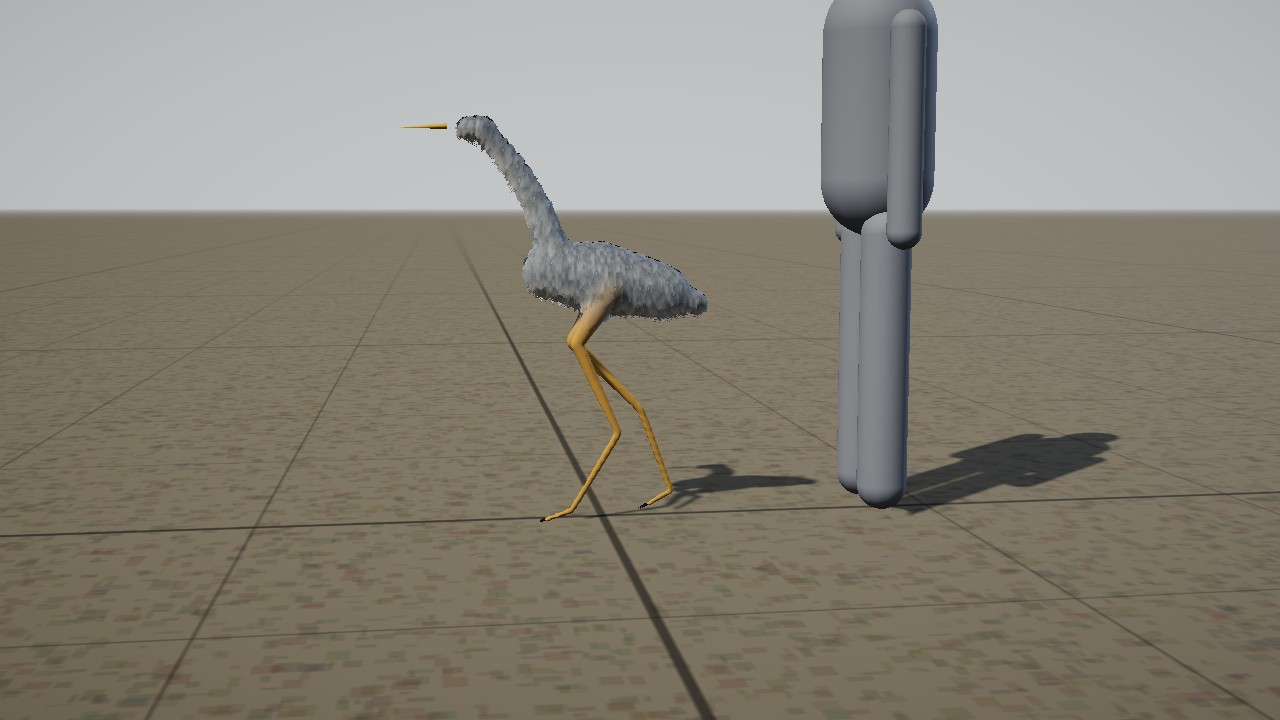
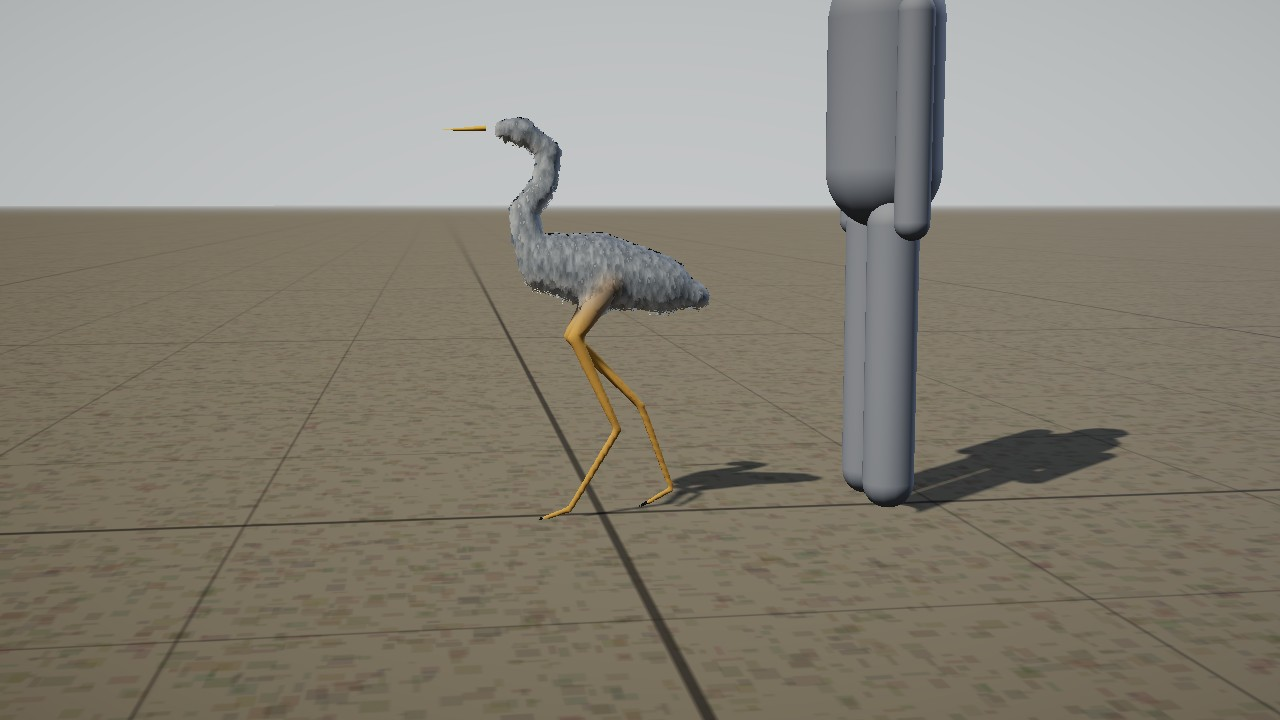
Bodies: Session 1738 — the heron's neck in an S at rest (the kit's neck bends)
Claude-Session: https://claude.ai/code/session_019eFMMoLi6YaA85dpmn3a9F

diff --git a/docs/prototypes/levelup/creatures.js b/docs/prototypes/levelup/creatures.js
@@ -48,17 +48,20 @@ P.spine = (B, o) => {
   B.spineAt = t => { const f = Math.max(0, Math.min(1, t)) * (n - 1), i = Math.min(n - 2, Math.floor(f)); return { bone: names[Math.round(f)], p: pts[i].clone().lerp(pts[i + 1], f - i), r: R(t) }; };
   B.front = chest.clone().add(V(0, -(o.frontDrop || 0) * .5, (o.front || 0) * .6)); B.back = hip.clone().add(V(0, -(o.rumpDrop || 0) * .5, -(o.rump || 0) * .6));
 };
-// the neck: from the chest's front, n bones rising at `rise` degrees and bending by `curve` over its length
+// the neck: from the chest's front, n bones rising at `rise` degrees and bending by `curve` over its length. `bends` (Session 1738, the
+// heron's S at rest) gives each bone its own angle instead, in degrees from forward (90 straight up, more leans back), so a neck can turn
+// back on itself: a curve bends one way only
 P.neck = (B, o) => {
   const len = o.len * B.g.sliders.neck, n = o.n || 2, p0 = B.front.clone().add(V(0, o.up || 0, o.fwd || 0)), pts = [p0];
-  for (let k = 0; k < n; k++) { const a = (o.rise + (o.curve || 0) * (k + .5) / n) * DEG; pts.push(pts[k].clone().add(V(0, Math.sin(a), Math.cos(a)).multiplyScalar(len / n))); }
+  const ang = k => (o.bends ? o.bends[Math.min(k, o.bends.length - 1)] : o.rise + (o.curve || 0) * (k + .5) / n) * DEG;
+  for (let k = 0; k < n; k++) { const a = ang(k); pts.push(pts[k].clone().add(V(0, Math.sin(a), Math.cos(a)).multiplyScalar(len / n))); }
   const names = B.chain('neck', B.spineNames[B.spineNames.length - 1], pts.slice(0, n));
   for (let k = 0; k < n; k++) B.meat(names[k], pts[k], pts[k + 1], along(o.r, k / n), along(o.r, (k + 1) / n), { s: [o.s?.[0] ?? 1, o.s?.[1] ?? 1, 1], group: 'neck', tone: o.tone });
   // a mane (Session 1261, the horse): a ridge along the top of the neck from the withers to the poll, in the mane's tone, grown into
   // the neck's skin as a crest (its own group, so it blends). `r` its half-height, `w` its width against that, `at` how far up the
   // neck's own radius its line runs, `fall` how far it hangs to one side (the off side, as a horse's mane is laid), `tk` how strongly its tone
   // claims the skin over it (a flesh's `tk`, its tone's weight against its neighbours': the neck under it would otherwise colour it)
-  if (o.mane) { const M = o.mane; for (let k = 0; k < n; k++) { const a = (o.rise + (o.curve || 0) * (k + .5) / n) * DEG, up = V((M.fall || 0), Math.cos(a), -Math.sin(a)).normalize(), lift = t => along(o.r, t) * (o.s?.[1] ?? 1) * (M.at ?? .8);
+  if (o.mane) { const M = o.mane; for (let k = 0; k < n; k++) { const a = ang(k), up = V((M.fall || 0), Math.cos(a), -Math.sin(a)).normalize(), lift = t => along(o.r, t) * (o.s?.[1] ?? 1) * (M.at ?? .8);
     B.meat(names[k], pts[k].clone().addScaledVector(up, lift(k / n)), pts[k + 1].clone().addScaledVector(up, lift((k + 1) / n)), along(M.r, k / n), along(M.r, (k + 1) / n), { s: [M.w ?? .45, 1, 1], tone: 'mane', tk: M.tk ?? 8, group: 'mane' }); } }
   B.neckEnd = pts[n]; B.neckBone = names[n - 1]; B.neckPts = pts; B.neckR = t => along(o.r, t); B.neckS = [o.s?.[0] ?? 1, o.s?.[1] ?? 1];
 };
@@ -1587,7 +1590,7 @@ Object.assign(PLANS, {
     fur: { len: .02, layers: 7, sx: 120, sy: 50, droop: .6 },
     parts: [
       ['spine', { hip: [.66, -.1], chest: [.7, .12], n: 3, r: [.075, .09, .07], s: [.8, 1.15], rump: .08, rumpDrop: .02, front: .04 }],
-      ['neck', { len: .48, n: 5, rise: 80, curve: -42, r: [.04, .022], fwd: -.02 }],
+      ['neck', { len: .48, n: 5, rise: 80, curve: -42, bends: [35, 80, 125, 95, 30], r: [.04, .022], fwd: -.02 }],
       ['head', { len: .1, r: .026, pitch: 2, eyes: [{ f: .4, up: .3, out: .7, r: .006, color: [.95, .85, .2] }], beak: { len: .14, r: .011, up: 0, hook: 0 } }],
       ['tail', { len: .14, n: 1, r: [.05, .03], droop: 20 }],
       ['legs', { at: .4, kind: 'bird', out: .04, drop: .04, r: [.04, .014, .01, .008], claws: { r: .003, len: .03 } }]
@@ -1697,7 +1700,7 @@ Object.assign(PLANS, {
     parts: PLANS.snowhare.parts.map(([k, o]) => k === 'head' ? [k, { ...o, ears: { ...o.ears, size: .12 } }] : [k, o]) }),
   scarletibis: re(PLANS.heron, { name: 'Scarlet Ibis', src: 'OG-030 (coastal wetlands; a sign of a healthy marsh)', scale: .72,
     palette: { coat: [.9, .2, .14], saddle: [.78, .14, .1], belly: [.95, .32, .24], dark: [.06, .04, .04], skin: [.86, .3, .22], horn: [.3, .12, .1] },
-    parts: PLANS.heron.parts.map(([k, o]) => k === 'head' ? [k, { ...o, beak: { len: .17, r: .01, up: -.05, hook: .55 } }] : [k, o]) }),
+    parts: PLANS.heron.parts.map(([k, o]) => k === 'head' ? [k, { ...o, beak: { len: .17, r: .01, up: -.05, hook: .55 } }] : k === 'neck' ? [k, { ...o, bends: undefined }] : [k, o]) }),
   miragefox: re(PLANS.redfox, { name: 'Mirage Fox', src: 'OG-030 (fennec-like; scavenges ruins and caravan routes)', scale: .62,
     palette: { coat: [.9, .78, .58], saddle: [.8, .66, .46], belly: [.98, .96, .92], dark: [.08, .06, .05], pale: [.98, .97, .94] }, fur: PLANS.redfox.fur,
     parts: PLANS.redfox.parts.map(([k, o]) => k === 'head' ? [k, { ...o, ears: { ...o.ears, size: .15, out: .6 } }] : [k, o]) }),
@@ -1775,7 +1778,7 @@ Object.assign(PLANS, {
     ] },
   sunfan: re(PLANS.heron, { name: 'Sunfan', src: 'OG-040 (Aurenne: a long-legged bird of plains and oases with a radiant fan it displays)', scale: 1.15,
     palette: { coat: [.86, .72, .44], saddle: [.72, .56, .3], belly: [.94, .88, .72], dark: [.06, .05, .04], skin: [.5, .32, .2], horn: [.4, .3, .18], comb: [.98, .68, .14], feather: [1, .74, .2], featherTip: [.92, .4, .08] },
-    parts: PLANS.heron.parts.map(([k, o]) => k === 'neck' ? [k, { ...o, len: .36 }] : k === 'head' ? [k, { ...o, beak: { len: .07, r: .012, up: -.05, hook: .2 }, ears: { kind: 'leaf', size: .045, f: .2, up: 1, out: .2, back: 35, splay: 8, tone: 'comb' } }] : k === 'tail' ? [k, { ...o, droop: -40, fan: { n: 15, len: .62, spread: 170, raise: 72 } }] : [k, o]) })
+    parts: PLANS.heron.parts.map(([k, o]) => k === 'neck' ? [k, { ...o, len: .36, bends: undefined }] : k === 'head' ? [k, { ...o, beak: { len: .07, r: .012, up: -.05, hook: .2 }, ears: { kind: 'leaf', size: .045, f: .2, up: 1, out: .2, back: 35, splay: 8, tone: 'comb' } }] : k === 'tail' ? [k, { ...o, droop: -40, fan: { n: 15, len: .62, spread: 170, raise: 72 } }] : [k, o]) })
 });
 export const STRANGE = ['crownstag', 'mossback', 'bellthroat', 'lanternfox', 'thornrunner', 'shatterhorn', 'frostmane', 'glasswing', 'stonejaw', 'stormplume', 'redcrest', 'sunfan', 'mineprowler', 'sailshell'];
 // ── Session 854: the sea (OG-016's coastal and open-ocean bands, OG-084; backlog L3). The Tidecrab, the Storm Whale,

diff --git a/vendor/creatures.builder.js b/vendor/creatures.builder.js
@@ -1478,17 +1478,20 @@ P.spine = (B, o) => {
   B.spineAt = t => { const f = Math.max(0, Math.min(1, t)) * (n - 1), i = Math.min(n - 2, Math.floor(f)); return { bone: names[Math.round(f)], p: pts[i].clone().lerp(pts[i + 1], f - i), r: R(t) }; };
   B.front = chest.clone().add(V(0, -(o.frontDrop || 0) * .5, (o.front || 0) * .6)); B.back = hip.clone().add(V(0, -(o.rumpDrop || 0) * .5, -(o.rump || 0) * .6));
 };
-// the neck: from the chest's front, n bones rising at `rise` degrees and bending by `curve` over its length
+// the neck: from the chest's front, n bones rising at `rise` degrees and bending by `curve` over its length. `bends` (Session 1738, the
+// heron's S at rest) gives each bone its own angle instead, in degrees from forward (90 straight up, more leans back), so a neck can turn
+// back on itself: a curve bends one way only
 P.neck = (B, o) => {
   const len = o.len * B.g.sliders.neck, n = o.n || 2, p0 = B.front.clone().add(V(0, o.up || 0, o.fwd || 0)), pts = [p0];
-  for (let k = 0; k < n; k++) { const a = (o.rise + (o.curve || 0) * (k + .5) / n) * DEG; pts.push(pts[k].clone().add(V(0, Math.sin(a), Math.cos(a)).multiplyScalar(len / n))); }
+  const ang = k => (o.bends ? o.bends[Math.min(k, o.bends.length - 1)] : o.rise + (o.curve || 0) * (k + .5) / n) * DEG;
+  for (let k = 0; k < n; k++) { const a = ang(k); pts.push(pts[k].clone().add(V(0, Math.sin(a), Math.cos(a)).multiplyScalar(len / n))); }
   const names = B.chain('neck', B.spineNames[B.spineNames.length - 1], pts.slice(0, n));
   for (let k = 0; k < n; k++) B.meat(names[k], pts[k], pts[k + 1], along(o.r, k / n), along(o.r, (k + 1) / n), { s: [o.s?.[0] ?? 1, o.s?.[1] ?? 1, 1], group: 'neck', tone: o.tone });
   // a mane (Session 1261, the horse): a ridge along the top of the neck from the withers to the poll, in the mane's tone, grown into
   // the neck's skin as a crest (its own group, so it blends). `r` its half-height, `w` its width against that, `at` how far up the
   // neck's own radius its line runs, `fall` how far it hangs to one side (the off side, as a horse's mane is laid), `tk` how strongly its tone
   // claims the skin over it (a flesh's `tk`, its tone's weight against its neighbours': the neck under it would otherwise colour it)
-  if (o.mane) { const M = o.mane; for (let k = 0; k < n; k++) { const a = (o.rise + (o.curve || 0) * (k + .5) / n) * DEG, up = V((M.fall || 0), Math.cos(a), -Math.sin(a)).normalize(), lift = t => along(o.r, t) * (o.s?.[1] ?? 1) * (M.at ?? .8);
+  if (o.mane) { const M = o.mane; for (let k = 0; k < n; k++) { const a = ang(k), up = V((M.fall || 0), Math.cos(a), -Math.sin(a)).normalize(), lift = t => along(o.r, t) * (o.s?.[1] ?? 1) * (M.at ?? .8);
     B.meat(names[k], pts[k].clone().addScaledVector(up, lift(k / n)), pts[k + 1].clone().addScaledVector(up, lift((k + 1) / n)), along(M.r, k / n), along(M.r, (k + 1) / n), { s: [M.w ?? .45, 1, 1], tone: 'mane', tk: M.tk ?? 8, group: 'mane' }); } }
   B.neckEnd = pts[n]; B.neckBone = names[n - 1]; B.neckPts = pts; B.neckR = t => along(o.r, t); B.neckS = [o.s?.[0] ?? 1, o.s?.[1] ?? 1];
 };
@@ -3017,7 +3020,7 @@ Object.assign(PLANS, {
     fur: { len: .02, layers: 7, sx: 120, sy: 50, droop: .6 },
     parts: [
       ['spine', { hip: [.66, -.1], chest: [.7, .12], n: 3, r: [.075, .09, .07], s: [.8, 1.15], rump: .08, rumpDrop: .02, front: .04 }],
-      ['neck', { len: .48, n: 5, rise: 80, curve: -42, r: [.04, .022], fwd: -.02 }],
+      ['neck', { len: .48, n: 5, rise: 80, curve: -42, bends: [35, 80, 125, 95, 30], r: [.04, .022], fwd: -.02 }],
       ['head', { len: .1, r: .026, pitch: 2, eyes: [{ f: .4, up: .3, out: .7, r: .006, color: [.95, .85, .2] }], beak: { len: .14, r: .011, up: 0, hook: 0 } }],
       ['tail', { len: .14, n: 1, r: [.05, .03], droop: 20 }],
       ['legs', { at: .4, kind: 'bird', out: .04, drop: .04, r: [.04, .014, .01, .008], claws: { r: .003, len: .03 } }]
@@ -3127,7 +3130,7 @@ Object.assign(PLANS, {
     parts: PLANS.snowhare.parts.map(([k, o]) => k === 'head' ? [k, { ...o, ears: { ...o.ears, size: .12 } }] : [k, o]) }),
   scarletibis: re(PLANS.heron, { name: 'Scarlet Ibis', src: 'OG-030 (coastal wetlands; a sign of a healthy marsh)', scale: .72,
     palette: { coat: [.9, .2, .14], saddle: [.78, .14, .1], belly: [.95, .32, .24], dark: [.06, .04, .04], skin: [.86, .3, .22], horn: [.3, .12, .1] },
-    parts: PLANS.heron.parts.map(([k, o]) => k === 'head' ? [k, { ...o, beak: { len: .17, r: .01, up: -.05, hook: .55 } }] : [k, o]) }),
+    parts: PLANS.heron.parts.map(([k, o]) => k === 'head' ? [k, { ...o, beak: { len: .17, r: .01, up: -.05, hook: .55 } }] : k === 'neck' ? [k, { ...o, bends: undefined }] : [k, o]) }),
   miragefox: re(PLANS.redfox, { name: 'Mirage Fox', src: 'OG-030 (fennec-like; scavenges ruins and caravan routes)', scale: .62,
     palette: { coat: [.9, .78, .58], saddle: [.8, .66, .46], belly: [.98, .96, .92], dark: [.08, .06, .05], pale: [.98, .97, .94] }, fur: PLANS.redfox.fur,
     parts: PLANS.redfox.parts.map(([k, o]) => k === 'head' ? [k, { ...o, ears: { ...o.ears, size: .15, out: .6 } }] : [k, o]) }),
@@ -3205,7 +3208,7 @@ Object.assign(PLANS, {
     ] },
   sunfan: re(PLANS.heron, { name: 'Sunfan', src: 'OG-040 (Aurenne: a long-legged bird of plains and oases with a radiant fan it displays)', scale: 1.15,
     palette: { coat: [.86, .72, .44], saddle: [.72, .56, .3], belly: [.94, .88, .72], dark: [.06, .05, .04], skin: [.5, .32, .2], horn: [.4, .3, .18], comb: [.98, .68, .14], feather: [1, .74, .2], featherTip: [.92, .4, .08] },
-    parts: PLANS.heron.parts.map(([k, o]) => k === 'neck' ? [k, { ...o, len: .36 }] : k === 'head' ? [k, { ...o, beak: { len: .07, r: .012, up: -.05, hook: .2 }, ears: { kind: 'leaf', size: .045, f: .2, up: 1, out: .2, back: 35, splay: 8, tone: 'comb' } }] : k === 'tail' ? [k, { ...o, droop: -40, fan: { n: 15, len: .62, spread: 170, raise: 72 } }] : [k, o]) })
+    parts: PLANS.heron.parts.map(([k, o]) => k === 'neck' ? [k, { ...o, len: .36, bends: undefined }] : k === 'head' ? [k, { ...o, beak: { len: .07, r: .012, up: -.05, hook: .2 }, ears: { kind: 'leaf', size: .045, f: .2, up: 1, out: .2, back: 35, splay: 8, tone: 'comb' } }] : k === 'tail' ? [k, { ...o, droop: -40, fan: { n: 15, len: .62, spread: 170, raise: 72 } }] : [k, o]) })
 });
 const STRANGE = ['crownstag', 'mossback', 'bellthroat', 'lanternfox', 'thornrunner', 'shatterhorn', 'frostmane', 'glasswing', 'stonejaw', 'stormplume', 'redcrest', 'sunfan', 'mineprowler', 'sailshell'];
 // ── Session 854: the sea (OG-016's coastal and open-ocean bands, OG-084; backlog L3). The Tidecrab, the Storm Whale,

diff --git a/docs/backlog.md b/docs/backlog.md
@@ -551,7 +551,7 @@ Michael marked all 96 images of the intake on the review page: 63 KEEP and 33 NO
 
 ### L3. Wildlife (the biggest gap: no peaceful land animals today)
 - **The common set first** (look builder, `34-creatures.js`; OG-084): wolf, red fox, brown hare, raven, crow, boar, deer, badger, otter, trout, built once and recoloured by island. Peaceful by default; one name per animal. **Prototyped as plans in the kit, Session 843** (bodies builder; `creatures.js` `COMMON`, `creatures-common.jpg`): all ten build and walk; owed: the game (after F4, behind `?look=new`), ~~the wolf~~ in it since Session 1202 (the Wolf, the Snow Wolf, the Dire Wolf; `f4wolves`), ~~the boar~~ since Session 1251 (the Boar foe's body, and the Mark's bear in the Cave Bear's brown as the Cave Bear's; `f4beasts`), ~~the Ash Hound~~ since Session 1274 (the kit's own `ashhound`: the wolf leaner and ash-grey, eyes lit, the embers a broken seam down the back; `f4beasts`, `f4wolves`), the peaceful ones still owed (they need a spawn, the systems builder's; **asked, Session 1687**, DECISION #984: where, how many, what they do on seeing you, and whether you can hunt them; A, present and huntable, recommended); Michael's A, present and huntable); ~~their bodies in the game~~ — done, Session 1704 (the Deer, the Red Fox, the Brown Hare, the Badger and the Otter: `buildAnimal(name,key)` in `34-creatures.js`, the kit's own plan each at its size in metres, keyed `wild:<key>`; `f4animals`; half the deer hinds by key, Session 1706), so the spawn is the systems builder's to call; ~~the spawn~~ — done, Session 1707 (`tickWildSpawn` in `88-world-ticks.js`: a chunk within 150 m rolls one group or none by its id and biome, off pads and roads; `tickWildOne` in `42-zone-enemies.js`: they graze, wander and run 40 m from your sight or sound; one blow kills, a deer 2 to 4 meat, a hare 1; `wildlife`); ~~the raven and the crow~~ — done, Sessions 1710 (their body, `buildBird`) and 1716 (in the spawn, carried from #1008 where it was first numbered 1711: crows on fields and shore, ravens on moor and tundra; startled they take off to 8–14 m, fly 60 m and land; aloft out of a blade's reach, an arrow must meet their height; `wildlife`); ~~the trout's body~~ — done, Session 1712 (`buildAnimal('Trout', key)`, no driver, a 120-triangle stand-in and the kit's trout near, 4,156 triangles, its beat by the water its group covers; `f4animals`), its spawn in the rivers the systems builder's (**asked, Session 1718**, DECISION #1014: how you take one; A, by hand while swimming as at sea or struck from the bank, recommended); ~~the island recolourings~~ — done, Session 865 (`COATS`, a genome's `island`); ~~the badger's face stripes~~ — done, Session 845 (a face mask in the kit). ~~Their feet on a slope (`character-builder.md`, B5)~~ — done, Session 1547 (`hcGround`: each toe on the ground under it by a two-bone reach, the body lowered when a downhill leg is straight; the bear 17 → 3 cm on a 0.20 slope; `f4beasts`).
-- **The Gatelands' fifteen** (OG-009): Elderstag, Gatefen Boar (roots up forgotten paths), Redspine Fox, otter, heron, badger, Hollowcat, stoat, Crag Hawk, Marsh Frog, River Pike, Stonecrawler, Mire Snake, Lantern Beetle (glows near ruins; an ingredient); a capercaillie in place of the turkey. **All fifteen are plans in the kit, Session 846** (bodies builder; `creatures.js` `GATELANDS`, `creatures-gatelands.jpg`); owed: the game, after F4: ~~the Elderstag, the Gatefen Boar, the Redspine Fox, the Hollowcat and the Greenward Stoat~~ have bodies in it since Session 1727 (renumbered from 1722; `buildAnimal`, wild, on the wolf's driver; `f4animals`; the spawn is the systems builder's), ~~the heron, the hawk and the capercaillie~~ since Session 1723 (the birds' path, their gaits by their plans'), ~~the pike~~ since Session 1724 (the trout's path), ~~the Stonecrawler and the frog~~ since Session 1731 (the land path, the kit's own trot and hop; so all fifteen have bodies), ~~the beetle~~ since Session 1730 (the snake's path, walking on the kit's six legs, 3,652 tris), ~~the snake~~ since Session 1728 (the trout's path on land, `SWIMMER`'s `land`: lying, slithering by its group, a wave's length a cycle; ~~the kit's own `strideOf` for slither a legged one's~~ — fixed at the kit, Session 1729: a wave's length a cycle); ~~the Hollowcat sitting with its forefeet together and its tail wrapped round~~ — done, Sessions 1126 and 1130 (`sitTuck`, `sitWrap`; the Sunspire Lynx too, the Stormlynx's bobtail not).
+- **The Gatelands' fifteen** (OG-009): Elderstag, Gatefen Boar (roots up forgotten paths), Redspine Fox, otter, heron, badger, Hollowcat, stoat, Crag Hawk, Marsh Frog, River Pike, Stonecrawler, Mire Snake, Lantern Beetle (glows near ruins; an ingredient); a capercaillie in place of the turkey. **All fifteen are plans in the kit, Session 846** (bodies builder; `creatures.js` `GATELANDS`, `creatures-gatelands.jpg`); owed: the game, after F4: ~~the Elderstag, the Gatefen Boar, the Redspine Fox, the Hollowcat and the Greenward Stoat~~ have bodies in it since Session 1727 (renumbered from 1722; `buildAnimal`, wild, on the wolf's driver; `f4animals`; the spawn is the systems builder's), ~~the heron, the hawk and the capercaillie~~ since Session 1723 (the birds' path, their gaits by their plans'), ~~the pike~~ since Session 1724 (the trout's path), ~~the Stonecrawler and the frog~~ since Session 1731 (the land path, the kit's own trot and hop; so all fifteen have bodies), ~~the beetle~~ since Session 1730 (the snake's path, walking on the kit's six legs, 3,652 tris), ~~the snake~~ since Session 1728 (the trout's path on land, `SWIMMER`'s `land`: lying, slithering by its group, a wave's length a cycle; ~~the kit's own `strideOf` for slither a legged one's~~ — fixed at the kit, Session 1729: a wave's length a cycle); ~~the Hollowcat sitting with its forefeet together and its tail wrapped round~~ — done, Sessions 1126 and 1130 (`sitTuck`, `sitWrap`; the Sunspire Lynx too, the Stormlynx's bobtail not). ~~The heron's straight neck (the critic's question on S1723, an ostrich?)~~ — done, Session 1738: an S at rest, the kit's neck `bends`.
 - **The Mark's fifteen** (OG-031): Icehorn (horns that moan in the wind), Ironpine Elk, Stormlynx, Skyraven, Craghorn Ram, Glacial Marmot, Stormshrike, Snowleap Hare (coat by season), Riverjaw Salmon (leaps the falls), Tundra Grouse, Icecrab; Stonefang Wolf and Frostreach Bear as reskins of the Snow Wolf and Cave Bear. **All fifteen are plans in the kit, Session 847** (bodies builder; `creatures.js` `MARK`, `creatures-mark.jpg`); owed: the game, after F4.
 - **Aurenne's fifteen** (OG-030): Duneskimmer, Terrace Ram, Oasis Hare, Scarlet Ibis, Mirage Fox, Cliffswift, Amber Shellcrab (harvestable), Cypress Stalker, Glasswing Moth (an ingredient), Sunbeak Vulture, Spined Gekko; the Saltspine Monitor hostile; the Dunescorpion as the Sand Scorpion's skin; the Sand Wyrm as a set piece known by its funnels. **Fourteen are plans in the kit, Session 848** (bodies builder; `creatures.js` `AURENNE`, `creatures-aurenne.jpg`); owed: the game, after F4; ~~the Glasswing Moth~~ — done, Session 864 (a moth's glass wings in the kit), so all fifteen are plans.
 - **The strange beasts** (OG-040): the Crownstag, the Mossback (a tortoise carrying a garden), the Bellthroat (its call at dusk), the Lanternfox, the Thornrunner; the Shatterhorn, the Frostmane (a pack beast), the Glasswing, the Stonejaw, the Stormplume; the Redcrest, the Sunfan, the Mineprowler, the Sailshell. Wonder without menace, mostly peaceful. A few have six legs, and that is ordinary (Michael's 9 A). **All fourteen are plans in the kit, Session 853** (bodies builder; `creatures.js` `STRANGE`, `creatures-strange.jpg`): six from Sessions 773 to 775 and eight new (the Crownstag, the Lanternfox, the Thornrunner, the Frostmane, the Glasswing, the Stonejaw, the Redcrest, the Sunfan); owed: the game, after F4.

diff --git a/docs/devlog/1738.md b/docs/devlog/1738.md
@@ -1,0 +1,23 @@
+## v80 — Session 1738 — the heron's neck in an S
+The bodies builder's run of 2 Nov, its first item (no section I item names the bodies builder; Michael's open notes on the builder wait on
+the critic's answer about the lower lip). Session 1723 put the Great Heron in the game and asked the critic whether its neck read as an
+ostrich's. It did: the kit's neck is built from `rise` and `curve`, one even bend, so a long neck can only lean forward like a plume. A heron
+at rest folds its neck into an S, the head drawn back over the shoulders.
+
+**The change** (`creatures.js`, the creature kit). `P.neck` takes `bends`, one angle per bone in degrees from forward (90 straight up, more
+leaning back), in place of `rise` and `curve`; the mane follows the same angles. The heron's five bones are `[35, 80, 125, 95, 30]`: out of the
+breast, up, back past the vertical, up, and forward into the head. Its old `rise`/`curve` are kept for any plan that drops `bends`. The
+Cypress Stalker (a heron) takes the S with it. The Scarlet Ibis and the Sunfan are made from the heron's plan but are not herons, so they
+drop `bends` and keep the old neck. `vendor/creatures.builder.js` rebuilt by `scripts/creatures_bundle.py` (`--check` matches). The game's
+heron is the same `game:Great Heron` row, and nothing in `js/` changed.
+
+### Verified (headless Chromium)
+`creatures.check.mjs --plans=heron,cypressstalker,scarletibis,sunfan`: all passed (weights sum to one, every foot on its target through the
+walk). On the kit's stage (`heron:check`) the head stands 1.161 above the foot against 1.194 before, 0.253 forward of the hips against
+0.386: drawn back 13 cm and down 3. 14,928 triangles against 14,396 (the bends add skin at the folds). `f4animals` 1/1: the game's heron 20
+bones, 5,300 triangles (was 5,372), 0.949 m beak to tail, still *walk* at every speed. `parsecheck` clean. Picture:
+`docs/prototypes/levelup/creatures-heron.jpg` (and `creatures-cypressstalker.jpg`).
+
+### Needs eyes
+The heron keeps the S while it walks. A real one stretches its neck out to strike or look, and folds it back in flight; that is a pose for
+when something makes the heron fish, which nothing does yet.
